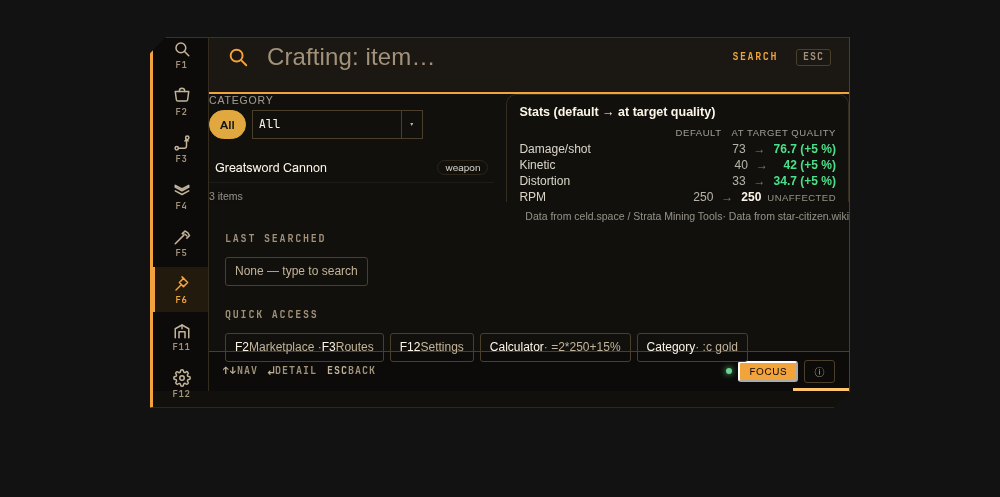
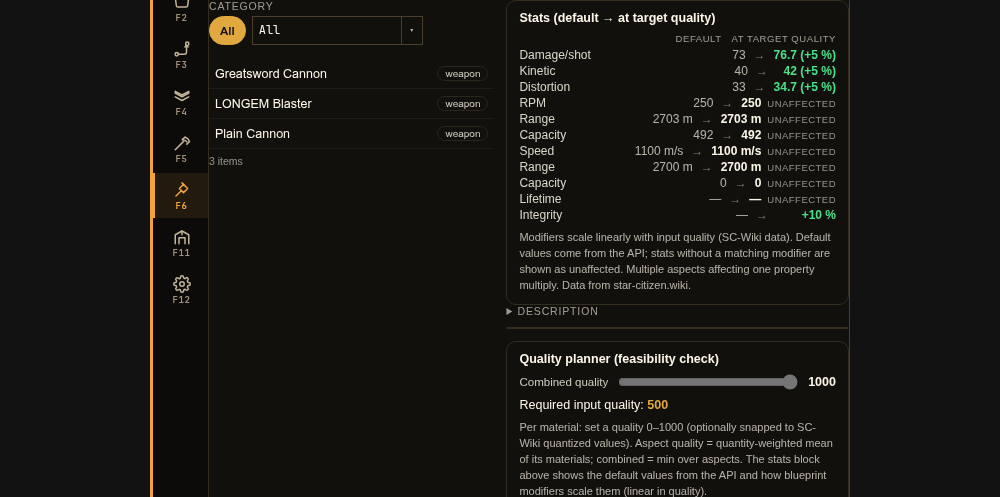
fix(m8-r1c-r1a): Detail-Panel-Height-Kollision — Shell-Crafting-Floor + Suche-Pane nur im Default-Modus (t_1dbe8a85)
- .shell-crafting min-height 640px/ui-scale (Floor nach .shell-info-Muster)
- {:else} des Suche-Panes zusätzlich auf railMode === null eingeschränkt
  (Pane fraß vorher die Hälfte der Shell-Höhe im Crafting-Modus)
- R1-A-Probe erweitert: Regler-Sichtbarkeit (Bounding-Box > 0) + kein Overflow
- Screenshots aktualisiert (Vollanzeige + Scroll-Bottom)

Gates: cargo fmt --check ✓, cargo test 231+0 ✓, svelte-check 0/0 ✓, pnpm build ✓

diff --git a/src/routes/+page.svelte b/src/routes/+page.svelte
@@ -5698,6 +5698,7 @@ const MARKET_STALE_SECS = 300; // P3: Market-Daten älter als 5 min → Hintergr
 		class:shell-advert={advertOpen || trkOpen || hangarFormOpen}
 		class:shell-info={infoOpen}
 		class:shell-cockpitmodal={ownCockpitModalOpen}
+		class:shell-crafting={railMode === 'crafting'}
 	>
 
 												<!-- PT: Formular „Trade erfassen" als modales Popup.
@@ -8054,7 +8055,13 @@ const MARKET_STALE_SECS = 300; // P3: Market-Daten älter als 5 min → Hintergr
 				{/if}
 			</div>
 
-		{:else}
+		<!-- M8-R1-C×R1-A Kollisions-Fix (t_1dbe8a85): der finale {:else} (Suche-
+		     Pane) fing vorher auch railMode === 'crafting' — das Such-Pane
+		     (.pane-list, flex:1) saß ALSO NEBEN dem Crafting-Wrapper in der
+		     .shell-main-Flex-Kette und fraß die Hälfte der Höhe (Kollaborations-
+		     Beweis: .cdetail ch:242 statt ~500, R1-A-Probe FAIL 6). Suche-Pane
+		     nur noch im Default-Modus (railMode null). -->
+		{:else if railMode === null}
 			<div class="pane-list" class:in-detail={inDetail}>
 				{#if status?.online === false}
 					<div class="offlineband">

diff --git a/src/app.css b/src/app.css
@@ -292,6 +292,20 @@ html[data-window="spotlight"] .shell {
   min-height: calc(640px / var(--ui-scale, 1));
 }
 
+/* M8-R1-C×R1-A Kollisions-Fix (t_1dbe8a85): Crafting-Modus — die
+   Content-Kette (.crafting-keep → .crafting → .ccols) besteht aus
+   flex:1 + min-height:0 + Scroll-Containern; deren min-content-Höhe
+   kollabiert auf ~0, die content-driven Shell schrumpfte auf die
+   Chrome-Restzeilen (~306px) und klemmte .cdetail auf 242px
+   (R1-A-Probe FAIL 6: sh:422, ch:242; Regler unter dem Cutoff).
+   Floor nach .shell-info-Muster (RB-Lektion t_94484d0c): die Shell
+   bekommt im Crafting-Modus eine feste Mindesthöhe, das Detail-Panel
+   wächst bis zur Shell-Grenze; nur der INHALT von .cdetail scrollt.
+   Inhaltlich größere Items wachsen weiter bis max-height 84vh. */
+.shell-crafting {
+  min-height: calc(640px / var(--ui-scale, 1));
+}
+
 /* Rail-Spalte: der bisherige Shell-Inhalt (Suchzeile, Panes, Fußzeile). */
 .shell-main {
   flex: 1;

diff --git a/docs/scripts/m8-r1a-material-quality-probe.py b/docs/scripts/m8-r1a-material-quality-probe.py
@@ -12,6 +12,9 @@ Gates:
   5. Snap-Punkte (stub: quality_quantized_values-Union): Toggle an →
      Regler rastet auf nächsten Quantwert; aus → frei; Titel zeigt Union.
   6. QualityStats-Block rechnet mit den individuellen Aspekt-Qualitäten.
+  6/7. M8-R1-C×R1-A (t_1dbe8a85): Detail-Panel füllt die Shell-Höhe
+     (kein Scroll-Overflow) UND die Regler sind SICHTBAR (Bounding-Box
+     > 0, nicht display:none, im sichtbaren Bereich ohne Scrollen).
 
 Backend = Tauri-Stub (docs/scripts/smoke-stub.js) + Override (dieses File).
 Rechenmodell dokumentiert in src/lib/quality-calc.ts (Header, M8-R1-A).
@@ -142,6 +145,24 @@ WRAP = r"""
     badge: r.querySelector('.cmq')?.textContent.trim(),
     cls: r.className
   }));
+  // M8-R1-C×R1-A (t_1dbe8a85): Regler-SICHTBARKEIT — Bounding-Box > 0,
+  // nicht display:none/hidden, im sichtbaren Bereich (ohne Scrollen).
+  // DOM-Präsenz allein genügt nicht (Regression am echten Fenster).
+  window.sliderVisibility = () => [...document.querySelectorAll('.crafting .cmq-slider')].map((el) => {
+    const r = el.getBoundingClientRect();
+    const cs = getComputedStyle(el);
+    return {
+      boxH: Math.round(r.height), boxW: Math.round(r.width),
+      display: cs.display, visibility: cs.visibility, opacity: cs.opacity,
+      inViewport: r.top >= 0 && r.bottom <= window.innerHeight && r.height > 0,
+      rangeVisible: (() => {
+        const inp = el.querySelector('.cmq-range');
+        if (!inp) return { present: false };
+        const ri = inp.getBoundingClientRect();
+        return { present: true, boxH: Math.round(ri.height), boxW: Math.round(ri.width) };
+      })()
+    };
+  });
   // Regler setzen: input-Event (Svelte oninput).
   window.setMat = (idx, v) => {
     const s = document.querySelectorAll('.crafting .cmq-range')[idx];
@@ -379,6 +400,18 @@ async def main():
         ov = await js("modalOverflow()")
         check("6 Detail-Shell mit Regler-Zeilen ohne Scroll-Overflow",
               ov is not None and ov["overflow"] is False, str(ov))
+        # ---- Gate 7 (M8-R1-C×R1-A, t_1dbe8a85): Regler SICHTBAR ----
+        vis = await js("sliderVisibility()")
+        check("7a Regler-Zeilen gerendert (Box > 0, nicht display:none/hidden)",
+              vis and len(vis) == 2 and all(v["boxH"] > 0 and v["boxW"] > 0
+                                            and v["display"] != "none"
+                                            and v["visibility"] != "hidden" for v in vis), str(vis))
+        check("7b Regler im sichtbaren Bereich (ohne Scrollen)",
+              vis and all(v["inViewport"] for v in vis), str(vis))
+        check("7c Range-Inputs selbst sichtbar (Box > 0)",
+              vis and all(v["rangeVisible"]["present"] and v["rangeVisible"]["boxH"] > 0
+                          and v["rangeVisible"]["boxW"] > 0 for v in vis), str(vis))
+        await shot("m8-r1a-detail-fullheight.png")
 
     for p in (proc, server):
         try:
